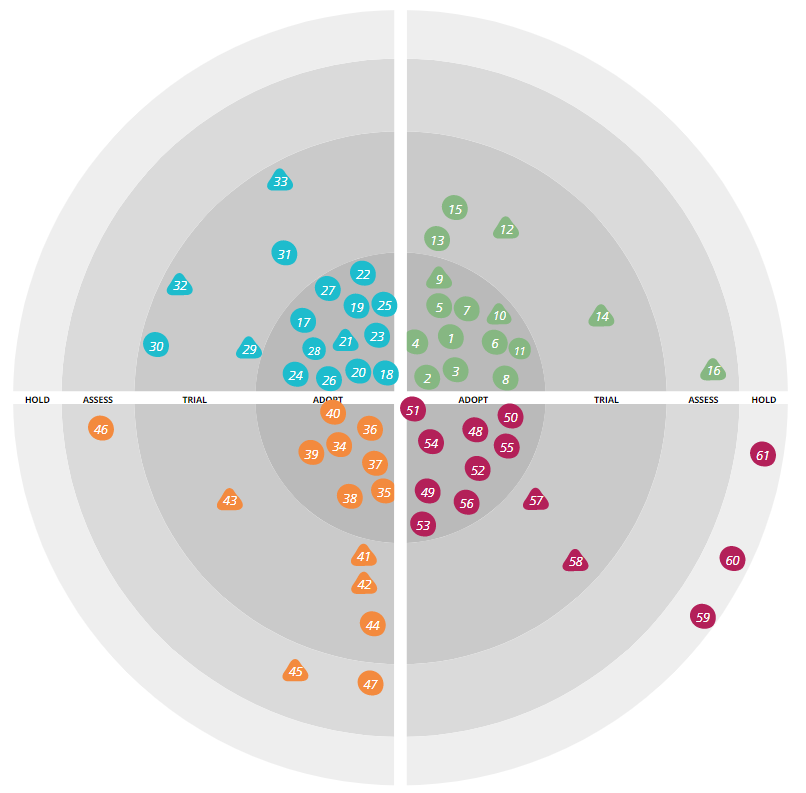
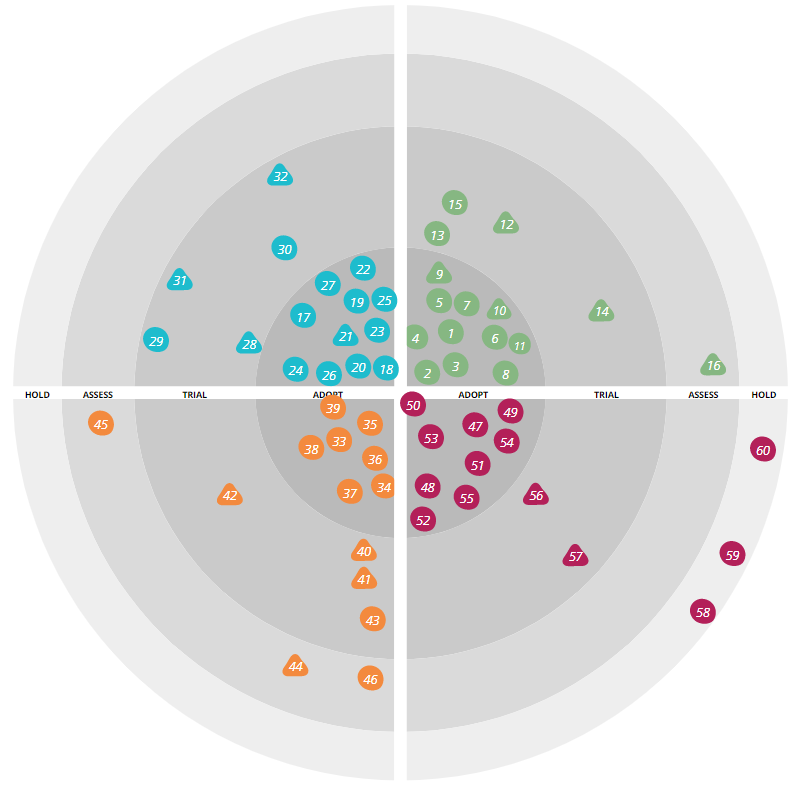
tech radar

diff --git a/_posts/2019-07-20-tech-radar.md b/_posts/2019-07-20-tech-radar.md
@@ -1,0 +1,128 @@
+---
+published: true
+layout: post
+title: tech radar
+description: tech radars show how we can manage our technical platforms by mapping items in use against items of interest 
+date: 2019-07-20
+tags: [architecure]
+comments: false
+---
+
+We can use a tech radar to show which technologies are of interest for use in our platform.
+
+This post we look at a tech-radar for a .NET micro-services platform, of which is looking to migrate some of its technology.
+
+The concept should be reuseable to other peoples/companies platforms. 
+
+## TLDR;
+
+- Use the radar to manage whats in use, or interest and what should be avoided.
+- Can visualize and communicate intent to others
+- A radar is individual to a platform, as each platform will have its own constraints and context. 
+- start with a simple radar and grow it over time.
+- a radar should be continually reviewed
+- a radar is a snapshot in time. 
+
+## Background
+
+I first came across tech-radars from Thoughtworks, which showed technologies that the company observed, and provided them a mechanism to communicate their lessons learned from consulting on a number of projects.
+
+A tech radar is used by multiple companies to allow them to manage their technology estate and coordinate its change.
+
+# A dotnet platform
+
+The platform we are reviewing is built using
+
+- .NET services (running mono)
+- Microservices
+- Linux Containers
+
+however given new changes in the landscape the platform owners want to address 4 key area's
+
+- .NET Mono, upgrading to .NET Core 3.x
+- Rancher 1.x being made obsolete
+- Upgrading the backend database technology
+- possible change of API Gateway technology
+
+this platform has some key constraints mainly it has very limited resources (team size and money). This drives the platform to adopt opensource and SaaS components which support small projects.
+
+# technology radar
+
+Thougthworks provides a website which allows you to create your own radars, found here: https://radar.thoughtworks.com
+
+We can use this to create a radar which shows the key technology and convey some of these concerns.
+
+## Overview
+
+The radar is split into 4 main quadrants, here are the default ones:
+
+- Tools
+- Language and frameworks
+- Platforms
+- Techniques
+
+![overview](https://raw.githubusercontent.com/dbones/dbones.github.io/master/images/posts/2019/tech-radar/Overview.PNG "overview")
+
+
+## Techniques
+
+Technology is implemented using techniques, these are key and also impact other quadrants.
+
+![techniques](https://raw.githubusercontent.com/dbones/dbones.github.io/master/images/posts/2019/tech-radar/techniques.PNG)
+
+**observations:**
+
+- This platform has a number of techniques which correlate with each other. its all about building small and composing big.
+
+## Platform
+
+Technologies which we run *our* platform on.
+
+![platform](https://raw.githubusercontent.com/dbones/dbones.github.io/master/images/posts/2019/tech-radar/platform.PNG)
+
+**observations:**
+
+- Postgres is being considered as a new database technology
+- Rancher 2.x is being looked into as a direct placement for 1.x, however Rio is also being understood.
+- .NET core 3.x is in progress but not ready to obsolete Mono
+- kong and ocelot are being looked at but not acted on yet.
+
+## Languages and frameworks
+
+The key components which we develop the platform with.
+
+![languages-frameworks](https://raw.githubusercontent.com/dbones/dbones.github.io/master/images/posts/2019/tech-radar/language.PNG)
+
+**observations:**
+
+- Marten will be used to support the adoption of Postgres
+- changing to .NET core runtime, has prompted trailing out Bonsai IoC and Polly to obsolete Castle Windsor.
+- NancyFx has, unfortunately, had a slowdown in development, and ASPNET core WebApi is being adopted to replace it.
+
+## Tools
+
+Technology used in creating/maintaining the platform.
+
+![tools](https://raw.githubusercontent.com/dbones/dbones.github.io/master/images/posts/2019/tech-radar/tools.png)
+
+**observations:**
+
+- Rancher 1.x along with Logentries provided a MVP to support DevOps. Prometheus is going to be trialed with Rancher 2.x to provide the required information.
+- Zipkin is being trialed to improve on the platform monitoring
+- development pipelines are looking to move over to CodeFresh
+
+# Obsoleting technology
+
+This radar shows a large story of a number of technologies being obsoleted and replaced, the radar itself is a snapshot in time. The following is a possible flow of how technology may happen over time:
+
+1. New technology needs to be **assessed** to identity which one can be utilise.
+2. A candidate technology is **trialed** in-order to find how it will be used in the platform and how we transition to it
+3. the new technology is **adopted** into the platform
+4. if the new technology replaces some existing technology, we can then put this on **hold**
+
+
+# Conclusion
+
+The tech radar supports technical architects to manage the platform's technical landscape. 
+
+It can be (and most likely should be) used to support the platform Roadmap.
